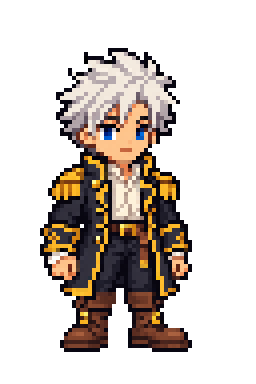
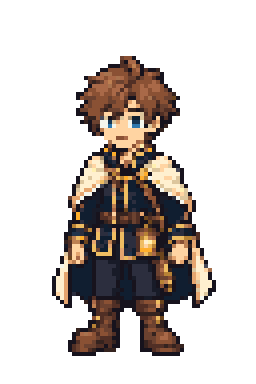
W23: 루멘 A안(K-109) 주인공 전투 시트·노멀·광택·초상 교체, 시트 규격 시험 추가

diff --git a/Game/Assets/_Project/Combat/Tests/CharacterArtIntegrationTests.cs b/Game/Assets/_Project/Combat/Tests/CharacterArtIntegrationTests.cs
@@ -35,6 +35,36 @@ public sealed class CharacterArtIntegrationTests
         }
     }
 
+    // K-109 루멘 A안: 전투 시트는 288×384 칸, 색·노멀·광택 마스크가 같은 크기 (D-081)
+    [TestCase("Art/Characters/Hero/hero_walk_run_grid", 1152, 1536, 16)]
+    [TestCase("Art/Characters/Hero/hero_back_idle", 288, 384, 1)]
+    [TestCase("Art/Characters/Hero/hero_command", 864, 384, 3)]
+    public void HeroSheetsAre288CellsWithMatchingNormalAndSpec(string path, int width, int height, int frames)
+    {
+        const string Root = "Assets/_Project/";
+        var color = AssetDatabase.LoadAssetAtPath<Texture2D>(Root + path + ".png");
+        var normal = AssetDatabase.LoadAssetAtPath<Texture2D>(Root + path + "_normal.png");
+        var spec = AssetDatabase.LoadAssetAtPath<Texture2D>(Root + "Art/Battle/Resources/BattleArt/Spec/" + System.IO.Path.GetFileName(path) + "_spec.png");
+        Assert.AreEqual(width, color.width); Assert.AreEqual(height, color.height);
+        Assert.AreEqual(frames, PerfLabArt.FrameCount(color));
+        foreach (var other in new[] { normal, spec })
+        {
+            Assert.IsNotNull(other, path);
+            Assert.AreEqual(width, other.width); Assert.AreEqual(height, other.height);
+        }
+        var importer = (TextureImporter)AssetImporter.GetAtPath(Root + path + ".png");
+        Assert.AreEqual(FilterMode.Point, importer.filterMode);
+        Assert.AreEqual(TextureImporterCompression.Uncompressed, importer.textureCompression);
+        Assert.IsFalse(importer.mipmapEnabled);
+    }
+
+    [TestCase("neutral")] [TestCase("determined")] [TestCase("surprised")] [TestCase("tired")]
+    public void HeroPortraitsAre256x384(string mood)
+    {
+        var tex = AssetDatabase.LoadAssetAtPath<Texture2D>("Assets/_Project/Story/Resources/StoryArt/portrait_hero_" + mood + ".png");
+        Assert.AreEqual(256, tex.width); Assert.AreEqual(384, tex.height);
+    }
+
     [TestCase("enemy_goblin")]
     [TestCase("enemy_goblin_ladder")]
     [TestCase("enemy_ogre")]
